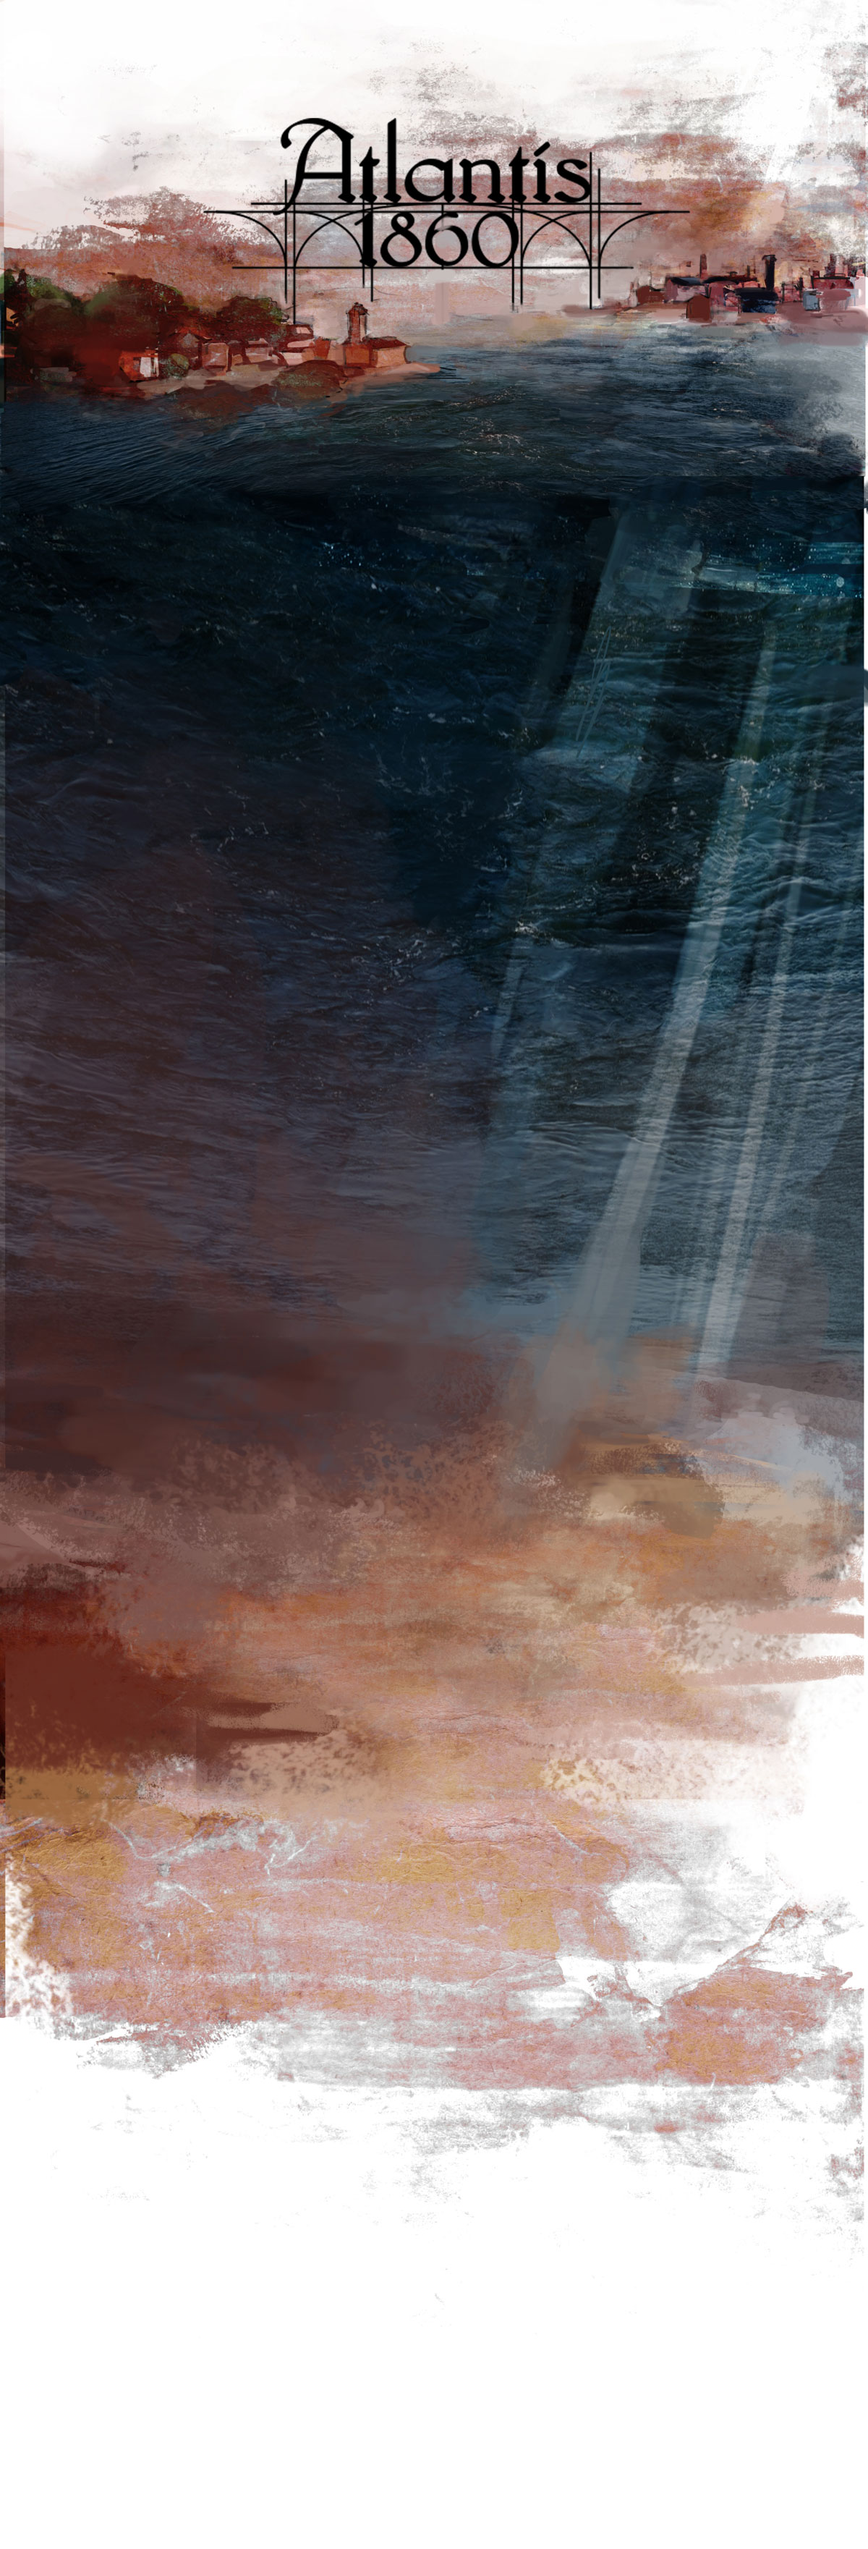
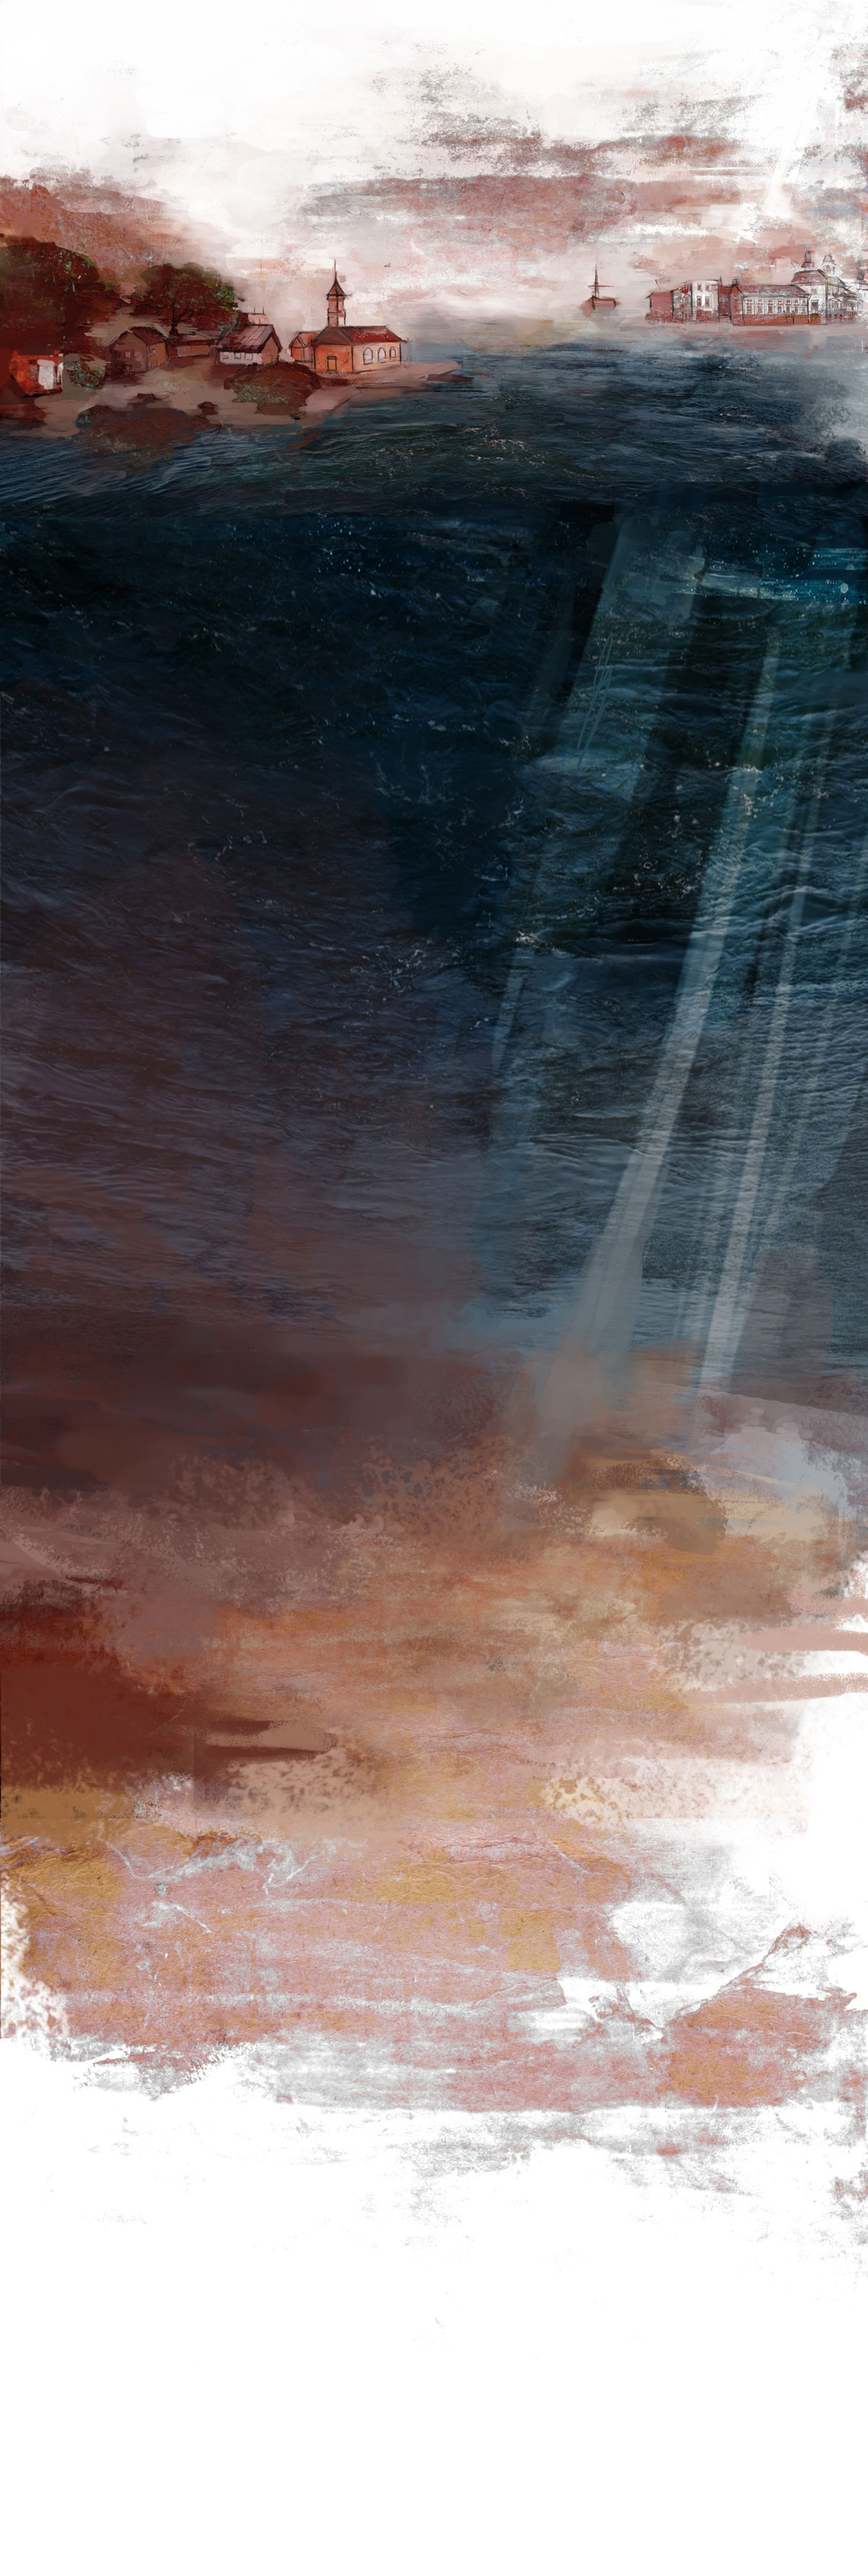
optimized bg image

diff --git a/app/index.html b/app/index.html
@@ -23,19 +23,13 @@
 <div class="parallax">
   
 </div>
-  <div class="margin-box">
-    <div class="container">
-      <div class="row">
-      </div>
-    </div>
+  <div class="margin-box"></div><!-- 100vh height margin -->
+  <div id="bg">
+    
+
+    
   </div>
-  <div id="bg"></div>
-  <div class="margin-box">
-    <div class="container">
-      <div class="row">
-      </div>
-    </div>
-  </div>
+  <div class="margin-box"></div><!-- 100vh height margin -->
 
   <!-- Google Analytics: change UA-XXXXX-X to be your site's ID. -->
   <script>

diff --git a/app/styles/main.scss b/app/styles/main.scss
@@ -20,10 +20,15 @@ body{
 }
 
 #bg{  
-  height: 3523px;
-  background-image: url('../images/bg_w1200.jpg');
+  height: 11779px;
+  background-image: url('../images/bg_w320.jpg');
   background-repeat: no-repeat;
   background-position: center top;
+
+  @media (max-width: 600px) { 
+    height: 2349;
+    background-image: url('../images/bg_w600.jpg');
+  }
 
   @media (max-width: 800px) { 
     height: 2349;
